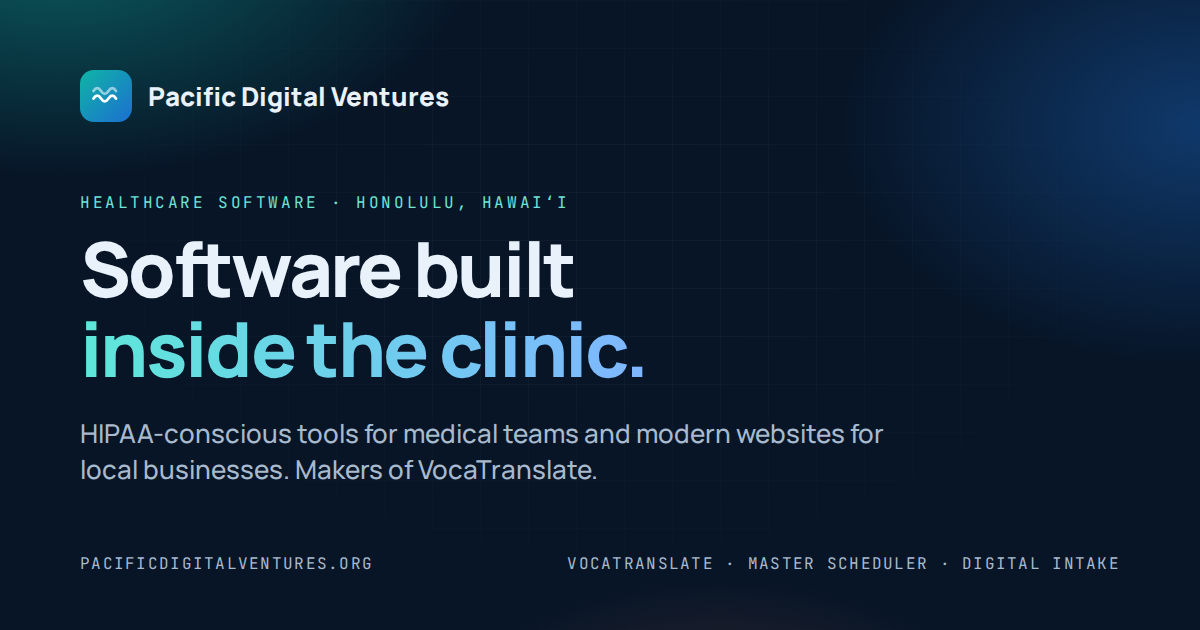
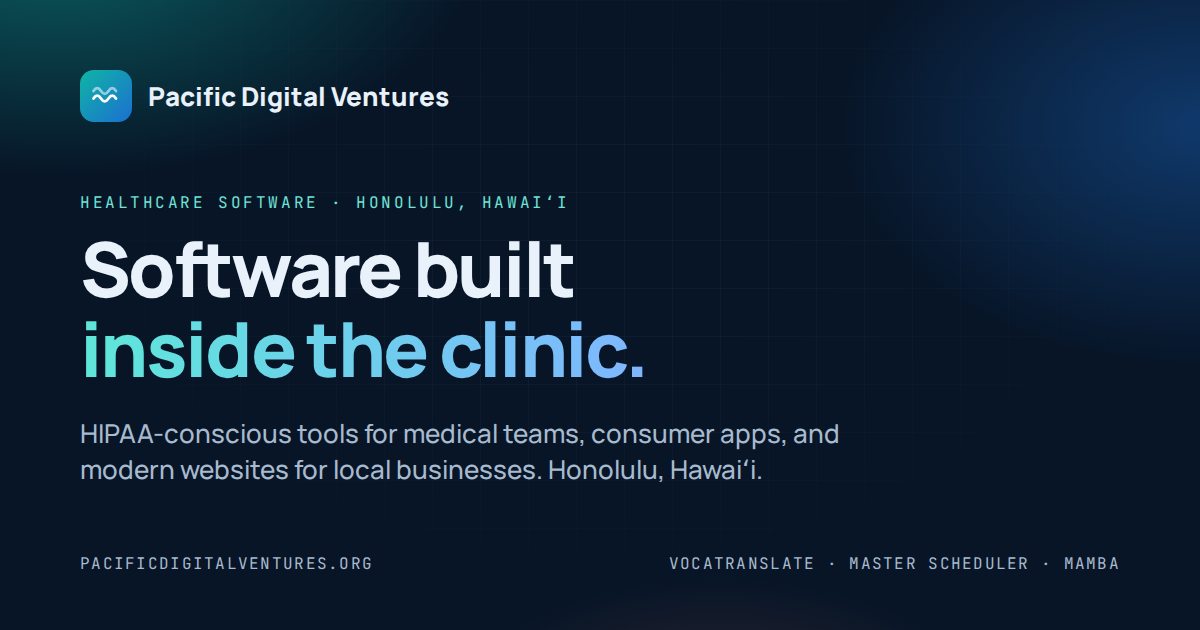
Add Mamba product card and broaden site copy for consumer apps
- Mamba card with App Store link, feature list and recovery-bar demo
- Hero, products intro, meta description, JSON-LD and share image now
  cover consumer apps alongside clinical tools

Claude-Session: https://claude.ai/code/session_01MEK9JwfS28LCv6jTXQ1Piq

Changed region(s): [[0.0617, 0.6635, 0.74, 0.7841], [0.4625, 0.8746, 0.9558, 0.9048]]

diff --git a/index.html b/index.html
@@ -4,7 +4,7 @@
   <meta charset="UTF-8">
   <meta name="viewport" content="width=device-width, initial-scale=1.0">
   <title>Pacific Digital Ventures — Software built inside the clinic</title>
-  <meta name="description" content="Pacific Digital Ventures builds HIPAA-conscious software for medical teams and modern websites for local businesses. Founded in Honolulu by a practicing orthopedic PA. Makers of VocaTranslate.">
+  <meta name="description" content="Pacific Digital Ventures builds HIPAA-conscious software for medical teams, consumer apps, and modern websites for local businesses. Founded in Honolulu by a practicing orthopedic PA. Makers of VocaTranslate, Master Scheduler and Mamba.">
   <meta name="theme-color" content="#0b1f33">
   <link rel="canonical" href="https://pacificdigitalventures.org/">
   <link rel="icon" href="assets/favicon.svg" type="image/svg+xml">
@@ -38,7 +38,8 @@
     "description": "Healthcare software and web development studio in Honolulu, Hawaiʻi. Makers of VocaTranslate.",
     "makesOffer": [
       { "@type": "Offer", "itemOffered": { "@type": "SoftwareApplication", "name": "VocaTranslate", "applicationCategory": "MedicalApplication", "operatingSystem": "iPadOS", "url": "https://apps.apple.com/us/app/vocatranslate/id6753782707" } },
-      { "@type": "Offer", "itemOffered": { "@type": "SoftwareApplication", "name": "Master Scheduler", "applicationCategory": "BusinessApplication", "operatingSystem": "iOS" } }
+      { "@type": "Offer", "itemOffered": { "@type": "SoftwareApplication", "name": "Master Scheduler", "applicationCategory": "BusinessApplication", "operatingSystem": "iOS" } },
+      { "@type": "Offer", "itemOffered": { "@type": "SoftwareApplication", "name": "Mamba: Hypertrophy Trainer", "applicationCategory": "HealthApplication", "operatingSystem": "iOS", "url": "https://apps.apple.com/us/app/mamba-hypertrophy-trainer/id6794737427" } }
     ]
   }
   </script>
@@ -350,6 +351,14 @@
     .sched-foot { display: flex; justify-content: space-between; padding: 8px 12px; background: var(--bg-elev); border-top: 1px solid var(--line); color: var(--ink-3); }
     .sched-foot b { color: var(--teal-2); font-weight: 500; }
 
+    /* Mamba recovery mini demo */
+    .recov { display: grid; gap: 8px; padding: 14px; border: 1px solid var(--line); border-radius: 14px; background: var(--bg-soft); font-size: 12.5px; }
+    .recov-row { display: grid; grid-template-columns: 72px 1fr 74px; align-items: center; gap: 10px; color: var(--ink-2); font-weight: 600; }
+    .recov-row em { font-style: normal; font-family: var(--mono); font-size: 10.5px; letter-spacing: .06em; text-transform: uppercase; color: var(--ink-3); text-align: right; }
+    .recov .bar { height: 8px; border-radius: 999px; background: var(--line); overflow: hidden; }
+    .recov .bar i { display: block; height: 100%; width: 0; border-radius: 999px; background: var(--c); transition: width 1.2s var(--ease); }
+    .recov.on .bar i { width: var(--w); }
+
     /* Intake mini demo */
     .intake-flow { display: grid; gap: 8px; }
     .step { display: flex; align-items: center; gap: 12px; padding: 10px 12px; border-radius: 12px; border: 1px solid var(--line); background: var(--bg-soft); font-size: 13.5px; font-weight: 600; color: var(--ink-2); }
@@ -476,7 +485,7 @@
       <div>
         <span class="eyebrow reveal">Healthcare software · Honolulu, Hawaiʻi</span>
         <h1 class="reveal" data-delay="1">Software built <em>inside the clinic.</em></h1>
-        <p class="lede reveal" data-delay="2">Pacific Digital Ventures builds HIPAA-conscious tools for medical teams and sharp, fast websites for local businesses. Founded and run by a practicing orthopedic PA who ships what the exam room actually needs.</p>
+        <p class="lede reveal" data-delay="2">Pacific Digital Ventures builds HIPAA-conscious tools for medical teams, apps people actually keep on their phone, and sharp, fast websites for local businesses. Founded and run by a practicing orthopedic PA.</p>
         <div class="hero-cta reveal" data-delay="3">
           <a class="btn btn-primary" href="#products">See our products
             <svg viewBox="0 0 24 24" fill="none" stroke="currentColor" stroke-width="2.4" stroke-linecap="round" stroke-linejoin="round"><path d="M5 12h14M13 6l6 6-6 6"/></svg>
@@ -536,7 +545,7 @@
       <div class="section-head reveal">
         <span class="eyebrow">Products</span>
         <h2>Tools that pull their weight on a real shift.</h2>
-        <p class="lede">Every product here started as a problem we hit at work. We build the version we'd actually want to use between patients.</p>
+        <p class="lede">Every product here started as something we wanted for ourselves, in the clinic or in the gym. We build the version we'd actually want to use.</p>
       </div>
 
       <div class="products">
@@ -619,16 +628,29 @@
         <!-- Mamba -->
         <article class="card span-6 reveal" data-delay="1">
           <div class="card-top">
-            <div class="app-icon" style="background:linear-gradient(135deg,#0b1f33,#33475b)">
-              <svg viewBox="0 0 24 24" fill="none" stroke="currentColor" stroke-width="2" stroke-linecap="round" stroke-linejoin="round"><path d="M13 2L4 14h7l-1 8 9-12h-7z"/></svg>
+            <div class="app-icon" style="background:linear-gradient(135deg,#0b1f33,#2f5fd0)">
+              <svg viewBox="0 0 24 24" fill="none" stroke="currentColor" stroke-width="2" stroke-linecap="round" stroke-linejoin="round"><path d="M6 8v8M18 8v8M3 10v4M21 10v4M6 12h12"/><rect x="4" y="7" width="4" height="10" rx="1"/><rect x="16" y="7" width="4" height="10" rx="1"/></svg>
             </div>
-            <span class="status soon">Coming soon</span>
+            <span class="status live">Live on the App Store</span>
           </div>
-          <h3>Mamba<small>Our next release</small></h3>
-          <p>Mamba is in active development. We're keeping the details under wraps until it's ready, but if you'd like early access when it ships, drop us a line and we'll put you on the list.</p>
+          <h3>Mamba<small>A hypertrophy trainer that reads your recovery, muscle by muscle.</small></h3>
+          <p>Mamba tells you what to train today and what can wait. It learns from each set you log, tracks how recovered each major muscle group is, and builds your next workout from that. It also flags any muscle group you've gone too long without training. Free on iPhone and iPad, with an optional Pro subscription.</p>
+          <ul class="feat">
+            <li><svg viewBox="0 0 24 24" fill="none" stroke="currentColor" stroke-width="2.4" stroke-linecap="round" stroke-linejoin="round"><path d="M5 12l5 5L20 7"/></svg><span>Workouts built from your recovery and volume</span></li>
+            <li><svg viewBox="0 0 24 24" fill="none" stroke="currentColor" stroke-width="2.4" stroke-linecap="round" stroke-linejoin="round"><path d="M5 12l5 5L20 7"/></svg><span>A recovery read for every major muscle group</span></li>
+            <li><svg viewBox="0 0 24 24" fill="none" stroke="currentColor" stroke-width="2.4" stroke-linecap="round" stroke-linejoin="round"><path d="M5 12l5 5L20 7"/></svg><span>Food logging with barcode scanning</span></li>
+            <li><svg viewBox="0 0 24 24" fill="none" stroke="currentColor" stroke-width="2.4" stroke-linecap="round" stroke-linejoin="round"><path d="M5 12l5 5L20 7"/></svg><span>A 3D avatar that grows with the sets you log</span></li>
+          </ul>
+          <div class="recov" id="recov" aria-hidden="true">
+            <div class="recov-row"><span>Chest</span><div class="bar"><i style="--w:92%;--c:#0fb5a5"></i></div><em>Ready</em></div>
+            <div class="recov-row"><span>Back</span><div class="bar"><i style="--w:58%;--c:#f2b84b"></i></div><em>Recovering</em></div>
+            <div class="recov-row"><span>Quads</span><div class="bar"><i style="--w:84%;--c:#0fb5a5"></i></div><em>Ready</em></div>
+            <div class="recov-row"><span>Shoulders</span><div class="bar"><i style="--w:100%;--c:#ff7a59"></i></div><em>Overdue</em></div>
+          </div>
           <div class="card-actions">
-            <a class="link" href="mailto:info@pacificdigitalventures.org?subject=Mamba%20early%20access">Request early access
-              <svg viewBox="0 0 24 24" fill="none" stroke="currentColor" stroke-width="2.4" stroke-linecap="round" stroke-linejoin="round"><path d="M5 12h14M13 6l6 6-6 6"/></svg>
+            <a class="appstore" href="https://apps.apple.com/us/app/mamba-hypertrophy-trainer/id6794737427" target="_blank" rel="noopener">
+              <svg viewBox="0 0 24 24" fill="currentColor"><path d="M16.4 12.6c0-2.4 2-3.6 2.1-3.7-1.1-1.7-2.9-1.9-3.5-1.9-1.5-.2-2.9.9-3.7.9-.8 0-1.9-.9-3.2-.8-1.6 0-3.1.9-4 2.4-1.7 3-.4 7.3 1.2 9.7.8 1.2 1.8 2.5 3 2.4 1.2 0 1.7-.8 3.2-.8s1.9.8 3.2.8c1.3 0 2.2-1.2 3-2.4.9-1.4 1.3-2.7 1.3-2.8 0 0-2.6-1-2.6-3.8zM14 5.4c.7-.8 1.1-1.9 1-3-1 0-2.1.7-2.8 1.5-.6.7-1.2 1.8-1 2.9 1.1.1 2.2-.6 2.8-1.4z"/></svg>
+              <span><small>Download on the</small><b>App Store</b></span>
             </a>
           </div>
         </article>
@@ -868,6 +890,10 @@
         };
         new IntersectionObserver((e, o) => { if (e[0].isIntersecting && !started) { started = true; run(); o.disconnect(); } }, { threshold: 0.4 }).observe(sched);
       }
+
+      // ---------- Mamba recovery demo ----------
+      const recov = document.getElementById('recov');
+      if (recov) new IntersectionObserver((e, o) => { if (e[0].isIntersecting) { recov.classList.add('on'); o.disconnect(); } }, { threshold: 0.5 }).observe(recov);
 
       // ---------- Intake demo ----------
       const flow = document.getElementById('intakeFlow');
